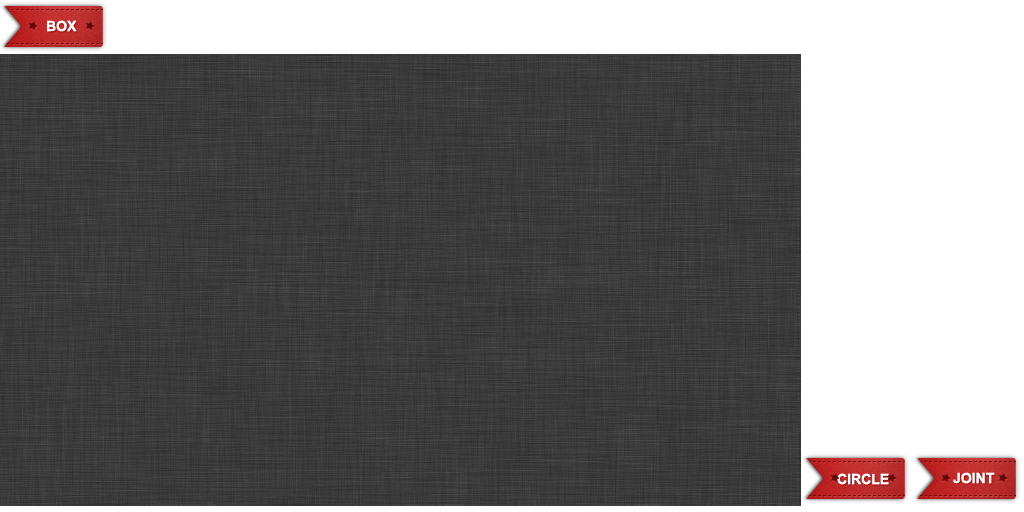
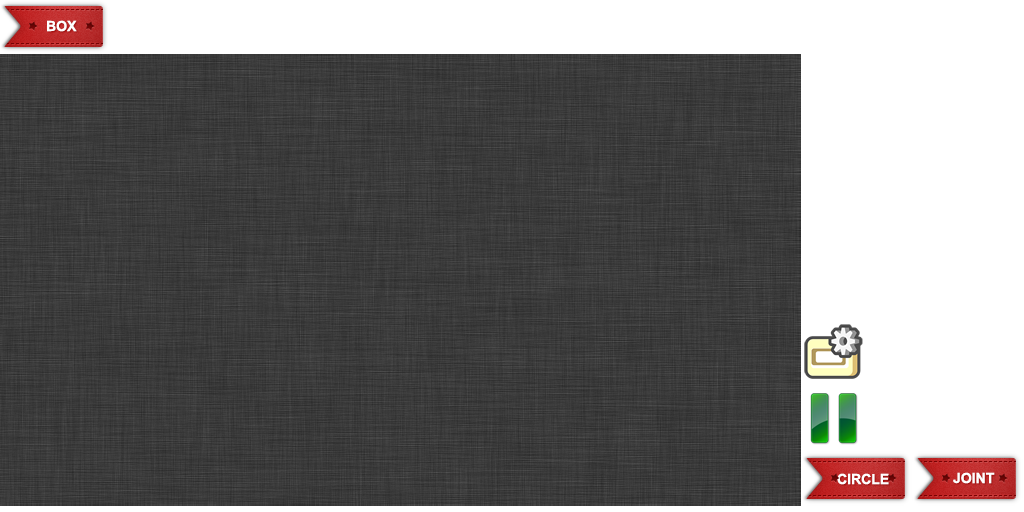
add the box2d world.we can play and stop the world

Changed region(s): [[0.7812, 0.625, 0.8438, 0.875]]

diff --git a/PhysicalWorld/src/com/zhaoyunhe/pw/props/Box2dAdapter.java b/PhysicalWorld/src/com/zhaoyunhe/pw/props/Box2dAdapter.java
@@ -1,15 +1,27 @@
 package com.zhaoyunhe.pw.props;
 
 import info.u250.c2d.engine.Engine;
+import info.u250.c2d.graphic.AdvanceSprite;
+import info.u250.c2d.physical.box2d.Cb2Object;
 import info.u250.c2d.physical.box2d.Cb2ObjectGroup;
+import info.u250.c2d.physical.box2d.Cb2Object.Cb2ObjectSetupCallback;
 import info.u250.c2d.physical.box2d.loader.cbt.CbtWorldReader;
 import info.u250.c2d.physical.box2d.loader.cbt.data.BodyData;
+import info.u250.c2d.physical.box2d.loader.cbt.data.BoxData;
+import info.u250.c2d.physical.box2d.loader.cbt.data.CircleData;
 import info.u250.c2d.physical.box2d.loader.cbt.data.JointData;
 
 import java.util.Iterator;
+import java.util.Random;
 
+import com.badlogic.gdx.Gdx;
+import com.badlogic.gdx.InputMultiplexer;
 import com.badlogic.gdx.InputProcessor;
+import com.badlogic.gdx.files.FileHandle;
+import com.badlogic.gdx.graphics.Texture;
+import com.badlogic.gdx.graphics.g2d.TextureAtlas;
 import com.badlogic.gdx.graphics.glutils.ShapeRenderer;
+import com.zhaoyunhe.pw.IFileIO;
 import com.zhaoyunhe.pw.props.box2d.BoxHelper;
 import com.zhaoyunhe.pw.props.box2d.CircleHelper;
 import com.zhaoyunhe.pw.props.box2d.RotateHelper;
@@ -19,38 +31,41 @@ import com.zhaoyunhe.pw.props.joints.DistanceJointHelper;
 import com.zhaoyunhe.pw.props.joints.FrictionJointHelper;
 import com.zhaoyunhe.pw.props.joints.PrismaticJointHelper;
 
-public class Box2dAdapter extends ShapeGroup {
+public class Box2dAdapter extends ShapeGroup implements IFileIO {
 	final BoxHelper mBoxHelper;
 	final CircleHelper mCircleHelper;
 	final RotateHelper mRotateHelper;
 	final ScaleHelper mScaleHelper;
 	final SelectedHelper mSelectedHelper;
-	
+
 	final DistanceJointHelper mDistanceJointHelper;
 	final FrictionJointHelper mFrictionJointHelper;
-	final PrismaticJointHelper mPrismaticJointHelper; 
-	
+	final PrismaticJointHelper mPrismaticJointHelper;
+
 	public final CbtWorldReader data;
 	final Cb2ObjectGroup group;
 	final ShapeRenderer render;
 	boolean runMode = false;
+	FileHandle file;
+	final InputMultiplexer mulInput;
 
 	public Box2dAdapter() {
 		mBoxHelper = new BoxHelper(this);
-		mCircleHelper=new CircleHelper(this);
-		mRotateHelper=new RotateHelper(this);
-		mScaleHelper=new ScaleHelper(this);
-		mSelectedHelper=new SelectedHelper(this);
-		
-		mDistanceJointHelper=new DistanceJointHelper(this);
-		mFrictionJointHelper=new FrictionJointHelper(this);
-		mPrismaticJointHelper=new PrismaticJointHelper(this);
-		
+		mCircleHelper = new CircleHelper(this);
+		mRotateHelper = new RotateHelper(this);
+		mScaleHelper = new ScaleHelper(this);
+		mSelectedHelper = new SelectedHelper(this);
+
+		mDistanceJointHelper = new DistanceJointHelper(this);
+		mFrictionJointHelper = new FrictionJointHelper(this);
+		mPrismaticJointHelper = new PrismaticJointHelper(this);
+
 		data = new CbtWorldReader();
 		group = new Cb2ObjectGroup();
 		render = Engine.getShapeRenderer();
-		
-		//add to group
+
+		mulInput = new InputMultiplexer();
+		// add to group
 		this.add(mBoxHelper);
 		this.add(mCircleHelper);
 		this.add(mRotateHelper);
@@ -65,10 +80,10 @@ public class Box2dAdapter extends ShapeGroup {
 	public void render(float delta) {
 
 		if (runMode) {
-//			Engine.getSpriteBatch().begin();
-//			group.render(delta);
-//			Engine.getSpriteBatch().end();
-			// group.debug(editor.render);
+			Engine.getSpriteBatch().begin();
+			group.render(delta);
+			Engine.getSpriteBatch().end();
+			group.debug(Engine.getShapeRenderer());
 			final Iterator<JointData> it2 = data.jointDatas.iterator();
 			while (it2.hasNext()) {
 				it2.next().debug(render);
@@ -93,4 +108,84 @@ public class Box2dAdapter extends ShapeGroup {
 		return mBoxHelper.getInputProcessor();
 	}
 
+	@Override
+	public void save() {
+		try {
+			if (file == null)
+				file = Gdx.files.absolute("");// TODO
+			data.write(file);
+		} catch (Exception ex) {
+			ex.printStackTrace();
+			file = null;
+		}
+	}
+
+	@Override
+	public void read() {
+		this.data.jointDatas.clear();
+		this.data.bodyDatas.clear();
+		this.data.read(this.file);
+	}
+
+	private void build() {
+		for (BodyData body : this.data.bodyDatas) {
+			body.build();
+		}
+		for (JointData joint : this.data.jointDatas) {
+			joint.build();
+		}
+	}
+
+	public void play() {
+		this.build();
+		this.mulInput.clear();
+
+		group.clear();
+		for (BodyData bd : this.data.bodyDatas) {
+			if (bd.res == null
+					|| bd.res.trim().equals("")
+					|| Engine.resource("atlas", TextureAtlas.class).findRegion(
+							bd.res) == null) {
+				Random random = new Random();
+				if (bd instanceof CircleData) {
+					AdvanceSprite sp = new AdvanceSprite(Engine.resource(
+							"CircleTexture", Texture.class));
+					sp.setColor(random.nextFloat(), random.nextFloat(),
+							random.nextFloat(), 1);
+					group.add(new Cb2Object(bd, sp));
+				} else if (bd instanceof BoxData) {
+					AdvanceSprite sp = new AdvanceSprite(Engine.resource(
+							"BoxTexture", Texture.class));
+					sp.setColor(random.nextFloat(), random.nextFloat(),
+							random.nextFloat(), 1);
+					group.add(new Cb2Object(bd, sp));
+				}
+			} else {
+				group.add(new Cb2Object(bd, new AdvanceSprite(Engine.resource(
+						"atlas", TextureAtlas.class).findRegion(bd.res)),
+						new Cb2ObjectSetupCallback() {
+
+							@Override
+							public void before(Cb2Object obj) {
+							}
+
+							@Override
+							public void after(Cb2Object obj) {
+								obj.data.body.setSleepingAllowed(true);
+								;
+								obj.data.body.setAwake(false);
+							}
+						}));
+			}
+		}
+		runMode = true;
+	}
+
+	public void stop() {
+		group.clear();
+		data.spawn();
+		this.mulInput.clear();
+		// rbg.getCamera().position.set(Engine.getDefaultCamera().position);
+		runMode = false;
+	}
 }

diff --git a/PhysicalWorld/src/com/zhaoyunhe/pw/ui/ShapePanel.java b/PhysicalWorld/src/com/zhaoyunhe/pw/ui/ShapePanel.java
@@ -1,6 +1,8 @@
 package com.zhaoyunhe.pw.ui;
 
 import info.u250.c2d.engine.Engine;
+import info.u250.c2d.physical.box2d.Cb2World;
+import info.u250.c2d.utils.UiUtils;
 
 import com.badlogic.gdx.Gdx;
 import com.badlogic.gdx.graphics.g2d.TextureAtlas;
@@ -8,17 +10,23 @@ import com.badlogic.gdx.scenes.scene2d.Group;
 import com.badlogic.gdx.scenes.scene2d.InputEvent;
 import com.badlogic.gdx.scenes.scene2d.ui.Image;
 import com.badlogic.gdx.scenes.scene2d.utils.ClickListener;
+import com.badlogic.gdx.scenes.scene2d.utils.TextureRegionDrawable;
+import com.zhaoyunhe.pw.IControl;
 
 public class ShapePanel extends Group {
 
 	private Image boxImage;
 	private Image circleImage;
 	private Image jointImage;
-
+	
+	private Image tools_run;//TODO delete
+	private IControl control;
+	
 	private TextureAtlas atlas;
 
-	public ShapePanel() {
+	public ShapePanel(IControl control) {
 		atlas = Engine.resource("atlas");
+		this.control=control;
 
 		boxImage = new Image(atlas.findRegion("button_box"));
 		circleImage = new Image(atlas.findRegion("button_circle"));
@@ -62,5 +70,46 @@ public class ShapePanel extends Group {
 			}
 
 		});
+		
+		final TextureRegionDrawable pauseRegion = new TextureRegionDrawable(atlas.findRegion("tools-pause"));
+		final TextureRegionDrawable playRegion = new TextureRegionDrawable(atlas.findRegion("tools-run"));
+		tools_run = new Image(atlas.findRegion("tools-pause"));
+		tools_run.addListener(new ClickListener(){
+			@Override
+			public void clicked(InputEvent event, float x, float y) {
+				if(tools_run.getDrawable() == playRegion){
+					Cb2World.getInstance().dispose();
+					Cb2World.getInstance().installDefaultWorld();
+					
+					tools_run.setDrawable(pauseRegion);
+					control.play();
+					
+//					InputMultiplexer mul = new InputMultiplexer();
+//					mul.addProcessor(Gdx.input.getInputProcessor());
+//					mul.addProcessor(new PhysicalFingerInput(Cb2World.getInstance().createScreenBox()));
+//					Gdx.input.setInputProcessor(mul);
+				}else{
+					Cb2World.getInstance().dispose();
+					
+					tools_run.setDrawable(playRegion);
+					control.stop();
+					
+//					if(Gdx.input.getInputProcessor() instanceof InputMultiplexer){
+//						InputMultiplexer mul = InputMultiplexer.class.cast(Gdx.input.getInputProcessor());
+//						for(InputProcessor input:mul.getProcessors()){
+//							if(input instanceof PhysicalFingerInput){
+//								mul.removeProcessor(input);
+//							}
+//						}
+//					}
+				}
+			}
+		});
+		
+		
+		tools_run.setDrawable(playRegion);
+		UiUtils.centerActor(tools_run);
+		tools_run.setY( Engine.getEngineConfig().height - tools_run.getHeight());
+		this.addActor(tools_run);
 	}
 }

diff --git a/PhysicalWorld/src/com/zhaoyunhe/pw/scenes/ScenePlay.java b/PhysicalWorld/src/com/zhaoyunhe/pw/scenes/ScenePlay.java
@@ -8,20 +8,21 @@ import com.badlogic.gdx.InputMultiplexer;
 import com.badlogic.gdx.InputProcessor;
 import com.badlogic.gdx.graphics.g2d.TextureAtlas;
 import com.badlogic.gdx.scenes.scene2d.ui.Image;
+import com.zhaoyunhe.pw.IControl;
 import com.zhaoyunhe.pw.props.Box2dAdapter;
 
-public class ScenePlay implements Scene {
+public class ScenePlay implements Scene, IControl {
 
 	Image bgImage;
-	Box2dAdapter box2d;
+	Box2dAdapter box2dAdapter;
 	UIStage ui;
 	InputMultiplexer input;
 
 	public ScenePlay() {
 		bgImage = new Image(Engine.resource("atlas", TextureAtlas.class)
 				.findRegion("bg"));
-		box2d = new Box2dAdapter();
-		ui = new UIStage();
+		box2dAdapter = new Box2dAdapter();
+		ui = new UIStage(this);
 		input = new InputMultiplexer();
 	}
 
@@ -37,7 +38,7 @@ public class ScenePlay implements Scene {
 		bgImage.draw(Engine.getSpriteBatch(), 1);
 		Engine.getSpriteBatch().end();
 
-		box2d.render(delta);
+		box2dAdapter.render(delta);
 		ui.draw();
 	}
 
@@ -56,8 +57,17 @@ public class ScenePlay implements Scene {
 	@Override
 	public InputProcessor getInputProcessor() {
 		input.addProcessor(ui);
-		input.addProcessor(box2d.getInputProcessor());
+		input.addProcessor(box2dAdapter.getInputProcessor());
 		return input;
 	}
 
+	@Override
+	public void play() {
+		box2dAdapter.play();
+	}
+
+	@Override
+	public void stop() {
+		box2dAdapter.stop();
+	}
 }

diff --git a/PhysicalWorld/src/com/zhaoyunhe/pw/PWEngineDrive.java b/PhysicalWorld/src/com/zhaoyunhe/pw/PWEngineDrive.java
@@ -30,24 +30,11 @@ public class PWEngineDrive implements EngineDrive {
 	@Override
 	public void onResourcesRegister(AliasResourceManager<String> reg) {
 		reg.textureAtlas("atlas", "data/t.atlas");
+		reg.texture("CircleTexture", "data/circle.png");
+		reg.texture("BoxTexture", "data/box.png");
+		
 //		reg.font("gameFont", "data/kingthings.fnt");
-
-//		reg.sound("cleanup0", "data/sound/cleanup0.mp3");
-//		reg.sound("cleanup1", "data/sound/cleanup1.mp3");
-//		reg.sound("cleanup2", "data/sound/cleanup2.mp3");
-//		reg.sound("cleanup3", "data/sound/cleanup3.mp3");
-//		reg.sound("cleanup4", "data/sound/cleanup4.mp3");
-//		reg.sound("cleanup5", "data/sound/cleanup5.mp3");
-//		reg.sound("cleanup6", "data/sound/cleanup6.mp3");
-//		reg.sound("cleanup7", "data/sound/cleanup7.mp3");
-//		reg.sound("cleanup8", "data/sound/cleanup8.mp3");
-//		reg.sound("cleanup9", "data/sound/cleanup9.mp3");
-//		reg.sound("cleanup10", "data/sound/cleanup10.mp3");
-//		reg.sound("cleanup11", "data/sound/cleanup11.mp3");
-//		reg.sound("drop", "data/sound/drop.mp3");
-//		reg.sound("speedMode", "data/sound/speedMode.mp3");
 //		reg.sound("boom", "data/sound/missile-explosion.wav");
-//
 //		reg.music("countdown", "data/music/countdown.mp3");
 	}
 

diff --git a/PhysicalWorld/src/com/zhaoyunhe/pw/scenes/UIStage.java b/PhysicalWorld/src/com/zhaoyunhe/pw/scenes/UIStage.java
@@ -2,14 +2,15 @@ package com.zhaoyunhe.pw.scenes;
 
 import info.u250.c2d.graphic.C2dStage;
 
+import com.zhaoyunhe.pw.IControl;
 import com.zhaoyunhe.pw.ui.ShapePanel;
 
 public class UIStage extends C2dStage {
 
 	private ShapePanel shapePanel;
 
-	public UIStage() {
-		shapePanel = new ShapePanel();
+	public UIStage(IControl control) {
+		shapePanel = new ShapePanel(control);
 		shapePanel.setPosition(0, 10);
 		this.addActor(shapePanel);
 	}

diff --git a/PhysicalWorld/src/com/zhaoyunhe/pw/IControl.java b/PhysicalWorld/src/com/zhaoyunhe/pw/IControl.java
@@ -1,0 +1,6 @@
+package com.zhaoyunhe.pw;
+
+public interface IControl {
+	public void play();
+	public void stop();
+}

diff --git a/PhysicalWorld/src/com/zhaoyunhe/pw/IFileIO.java b/PhysicalWorld/src/com/zhaoyunhe/pw/IFileIO.java
@@ -1,0 +1,6 @@
+package com.zhaoyunhe.pw;
+
+public interface IFileIO {
+	public void save();
+	public void read();
+}
